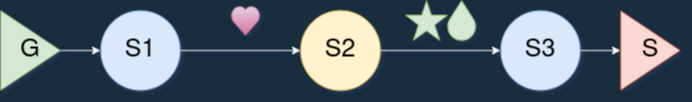
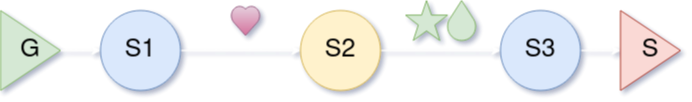
Fix documentation

diff --git a/examples/basic/use_hatched.cpp b/examples/basic/use_hatched.cpp
@@ -34,7 +34,7 @@ int main()
             ret.emplace(curChar);
         }
 
-        return ret; // Returning a contectually "false" object, here empty
+        return ret; // Returning a contextually "false" object, here empty
                     // optional, means the input won't be hatched any more and
                     // the stage can process new values produced from the
                     // previous stage.

diff --git a/README.md b/README.md
@@ -22,6 +22,7 @@
 - [Topology](#Topology)
   - [Filter](#Filter)
   - [Farm](#Farm)
+  - [Hatch](#Hatch)
 - [Utilities](#Utilities)
   - [Consumer](#Consumer)
 - [Examples](#Examples)
@@ -202,9 +203,9 @@ The `std::optional` type was not used directly, since explicit use cases exist f
 To __provide explicit syntax to your pipeline declaration__, a helper `Filter` caller can be used. This is a "call forwarding" wrapper that can use either  `std::optional` or `yap::Filtered` return types:
 
 ```cpp
-auto oddPrinter = yap::Pipeline{} 
-    | gen 
-    | yap::Filter(s2)  // Explicitly declared filtering stage. 
+auto oddPrinter = yap::Pipeline{}
+    | gen
+    | yap::Filter(s2)  // Explicitly declared filtering stage.
     | intPrinter{};
 ```
 
@@ -213,6 +214,57 @@ __A stage following a filter__ should accept a `yap::Filtered<T>` input. It can 
 ### Farm
 
 ![farmed_stage](assets/farm_pattern.png)
+
+### [Hatch](https://github.com/picanumber/yapp/blob/main/examples/basic/use_hatched.cpp)
+
+A _hatching stage_ is one that can produce more than one outputs for a single input. In the diagram below, `S2` is such a stage:  
+
+![hatching_stage](assets/hatch_pattern.png)
+
+Note that this process is conceptually different to producing a collection of objects. __A typical example where you might want to hatch your input is when processing text files__, say line by line. If the stage that produced the lines was to scan the whole text file and output a vector of text lines (strings) then you'd face the following deficiencies:
+
+1. Extraneous memory used to hold the entirety of the text file. The program only needs a single line "in-flight" to do its processing.
+2. The next stage has to wait until the whole file has been read. The "vector of lines" implies that text processing can only begin after the text file has been read.
+
+Such a situation can be greatly improved if the "text reader" stage produces its output in a piece wise fashion: Each line that is ready, gets immediately pushed to the next stage for processing.
+
+__To create a hatching stage__ use a callable that accepts `yap::Hatchable` objects as input, a class similar in logic to `yap::Filtered` that conveys how the stage does its processing:
+
+1. The `yap::Hatchable` is convertible to `bool`. `true` means new input while `false` (empty optional) means you're still producing output from the previous input.
+2. The hatching stage outputs an object that is convertible to `bool`, e.g. an `std::optional` or again `yap::Hatchable`. __The pipeline stops processing the same input when the output is `false`__, alternatively it keeps invoking the stage with an empty `yap::Hatchable` to produce more output from the same input.
+
+```cpp
+auto exampleHatchingStage = [](yap::Hatchable<int> input)
+{
+     std::optional<char> ret;
+
+     if (val)
+     {  
+         // New Input from previous stage. Input data is non empty.
+         std::optional<int> &curInput = input.data;
+         assert(curInput);
+     }
+     else
+     {  
+         // Keep processing the last input from previous stage. Input data is empty.
+         assert(!input.data);
+     }
+
+     return ret; // Returning a contextually "false" object, here empty
+                 // optional, means the input won't be hatched any more and
+                 // the stage can process new values produced from the
+                 // previous stage.
+};
+```
+
+To __provide explicit syntax to your pipeline declaration__, a helper `OutputHatchable` caller can be used to denote the stage producing input for the hatching stage. This is a "call forwarding" wrapper that wraps the output of a stage into `yap::Hatchable` return types:
+
+```cpp
+auto hp = yap::Pipeline{}
+    | yap::OutputHatchable(generator) // The previous stage can be annotated.
+    | exampleHatchingStage
+    | sinkStage{};
+```
 
 ## Utilities
 
@@ -232,7 +284,7 @@ Usage on a container `c` is pretty straightforward:
 auto p1 = yap::Pipeline{} | yap::Consume(c.begin(), c.end()) | ...
 
 // Input values are moved into the pipeline. Container has "moved-from" objects.
-auto p2 = yap::Pipeline{} | 
+auto p2 = yap::Pipeline{} |
   yap::Consume(std::make_move_iterator(c.begin()), std::make_move_iterator(c.end())) | ...
 ```
 
